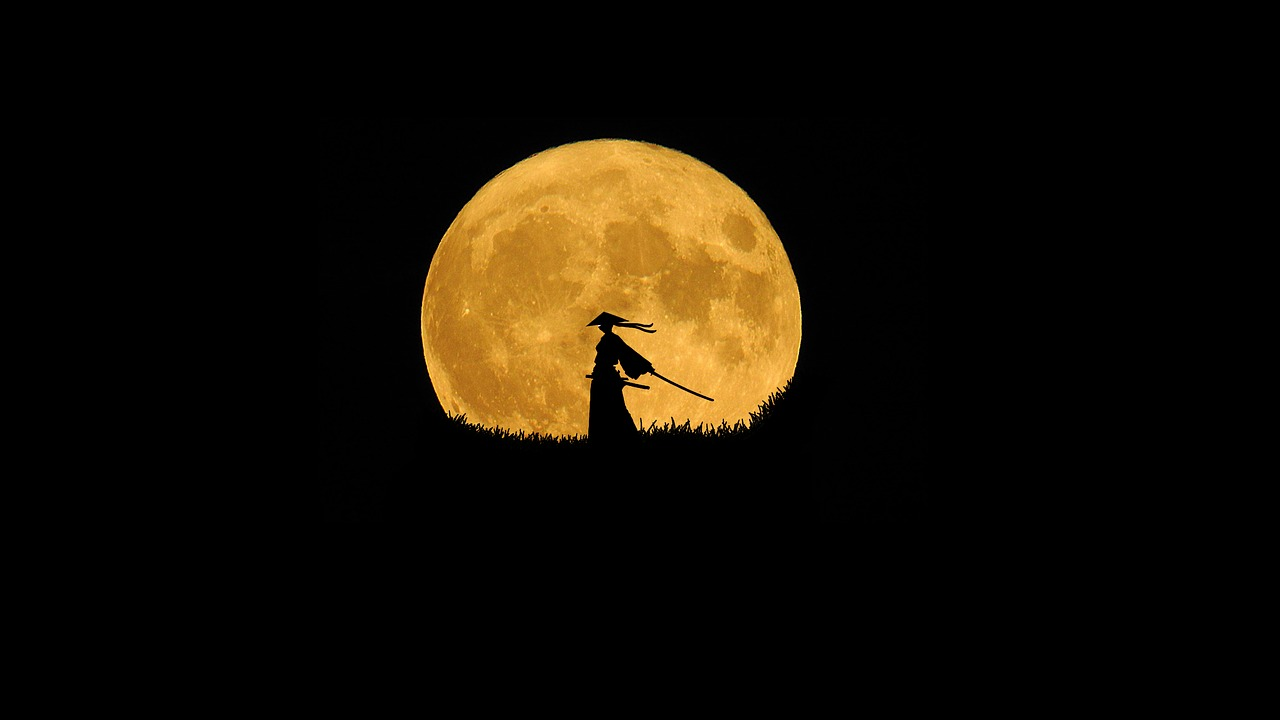
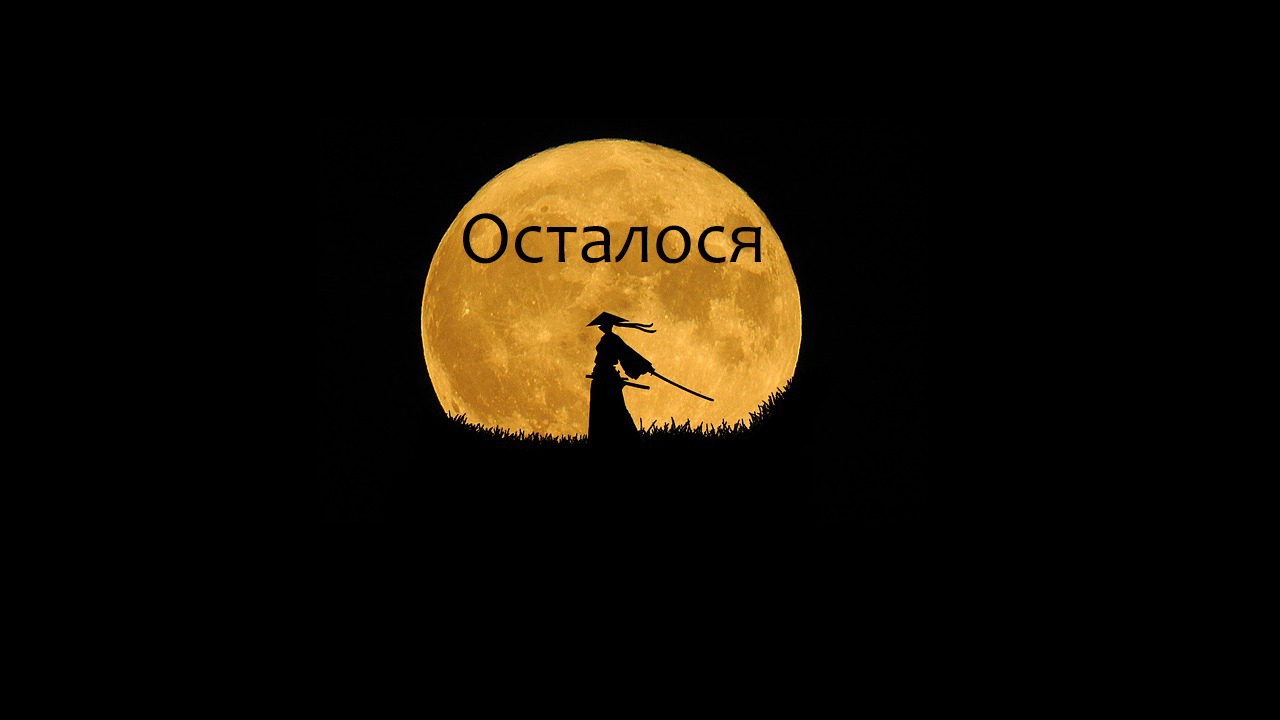
site

Changed region(s): [[0.3438, 0.275, 0.5938, 0.3667]]

diff --git a/css/style.css b/css/style.css
@@ -17,6 +17,7 @@ body {
 
 
 .ost{
+  display: none;
   margin: 0 auto;
   font-size: 40px;
   color: black;
@@ -35,7 +36,7 @@ body {
   width: 75%;
   max-width: 20rem;
   margin: 0 auto;
-  margin-top: 180px;
+  margin-top: 380px;
   margin-left:460px;
 }
 
